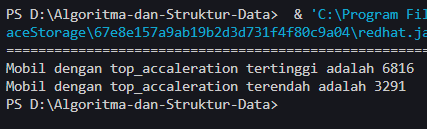
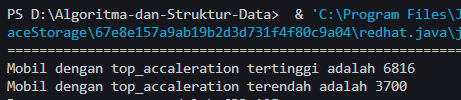
FIXED LAPORAN

diff --git a/Pertemuan-5/FileJava/Latihan Praktikum/dataMobil20.java b/Pertemuan-5/FileJava/Latihan Praktikum/dataMobil20.java
@@ -2,7 +2,7 @@ public class dataMobil20 {
     String merk[] = { "BMW", "Ford", "Nissan", "Subaru", "Toyota", "Volkswagen" };
     String tipe[] = { "M2 Coupe", "Fiesta ST", "370Z", "BRZ", "Impreza WRX STI", "AE86 Trueno", "86/GT86", "Golf GTI" };
     int tahun[] = { 2016, 2014, 2009, 2014, 2013, 1986, 2014, 2014 };
-    int topAcceleration[] = { 6816, 3291, 4360, 4058, 6255, 3700, 4180, 4180 };
+    int topAcceleration[] = { 6816, 3921, 4360, 4058, 6255, 3700, 4180, 4180 };
     int topPower[] = { 728, 575, 657, 609, 703, 553, 609, 631 };
 
     int maxAcceleration(int arr[], int l, int r) {

diff --git a/Pertemuan-5/Laporan5.md b/Pertemuan-5/Laporan5.md
@@ -509,7 +509,7 @@ public class dataMobil20 {
     String merk[] = { "BMW", "Ford", "Nissan", "Subaru", "Toyota", "Volkswagen" };
     String tipe[] = { "M2 Coupe", "Fiesta ST", "370Z", "BRZ", "Impreza WRX STI", "AE86 Trueno", "86/GT86", "Golf GTI" };
     int tahun[] = { 2016, 2014, 2009, 2014, 2013, 1986, 2014, 2014 };
-    int topAcceleration[] = { 6816, 3291, 4360, 4058, 6255, 3700, 4180, 4180 };
+    int topAcceleration[] = { 6816, 3921, 4360, 4058, 6255, 3700, 4180, 4180 };
     int topPower[] = { 728, 575, 657, 609, 703, 553, 609, 631 };
 
     int maxAcceleration(int arr[], int l, int r) {
@@ -554,7 +554,7 @@ public class dataMobil20 {
     String merk[] = { "BMW", "Ford", "Nissan", "Subaru", "Toyota", "Volkswagen" };
     String tipe[] = { "M2 Coupe", "Fiesta ST", "370Z", "BRZ", "Impreza WRX STI", "AE86 Trueno", "86/GT86", "Golf GTI" };
     int tahun[] = { 2016, 2014, 2009, 2014, 2013, 1986, 2014, 2014 };
-    int topAcceleration[] = { 6816, 3291, 4360, 4058, 6255, 3700, 4180, 4180 };
+    int topAcceleration[] = { 6816, 3921, 4360, 4058, 6255, 3700, 4180, 4180 };
     int topPower[] = { 728, 575, 657, 609, 703, 553, 609, 631 };
 
     int maxAcceleration(int arr[], int l, int r) {
@@ -619,7 +619,7 @@ public class dataMobil20 {
     String merk[] = { "BMW", "Ford", "Nissan", "Subaru", "Toyota", "Volkswagen" };
     String tipe[] = { "M2 Coupe", "Fiesta ST", "370Z", "BRZ", "Impreza WRX STI", "AE86 Trueno", "86/GT86", "Golf GTI" };
     int tahun[] = { 2016, 2014, 2009, 2014, 2013, 1986, 2014, 2014 };
-    int topAcceleration[] = { 6816, 3291, 4360, 4058, 6255, 3700, 4180, 4180 };
+    int topAcceleration[] = { 6816, 3921, 4360, 4058, 6255, 3700, 4180, 4180 };
     int topPower[] = { 728, 575, 657, 609, 703, 553, 609, 631 };
 
     int maxAcceleration(int arr[], int l, int r) {
@@ -684,4 +684,4 @@ public class mainMobil20 {
 
 ```
 
-OUPUT: <br>![alt text](Img/OtpLatC.png)
+OUTPUT: <br>![alt text](Img/OtpLatC.png)
